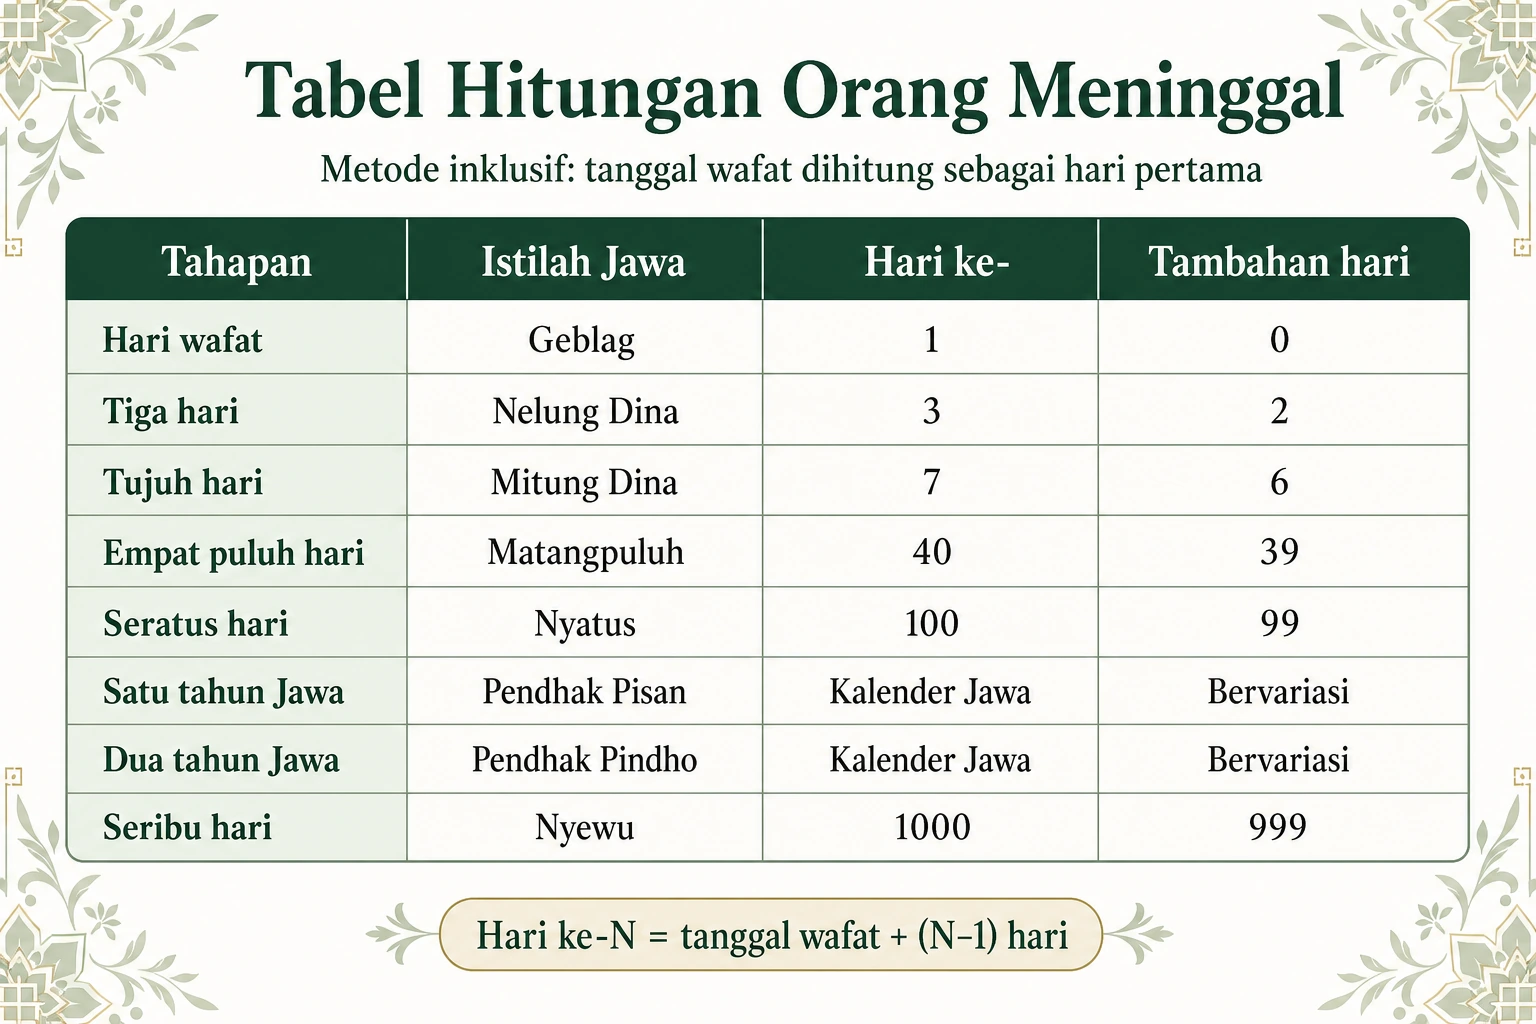
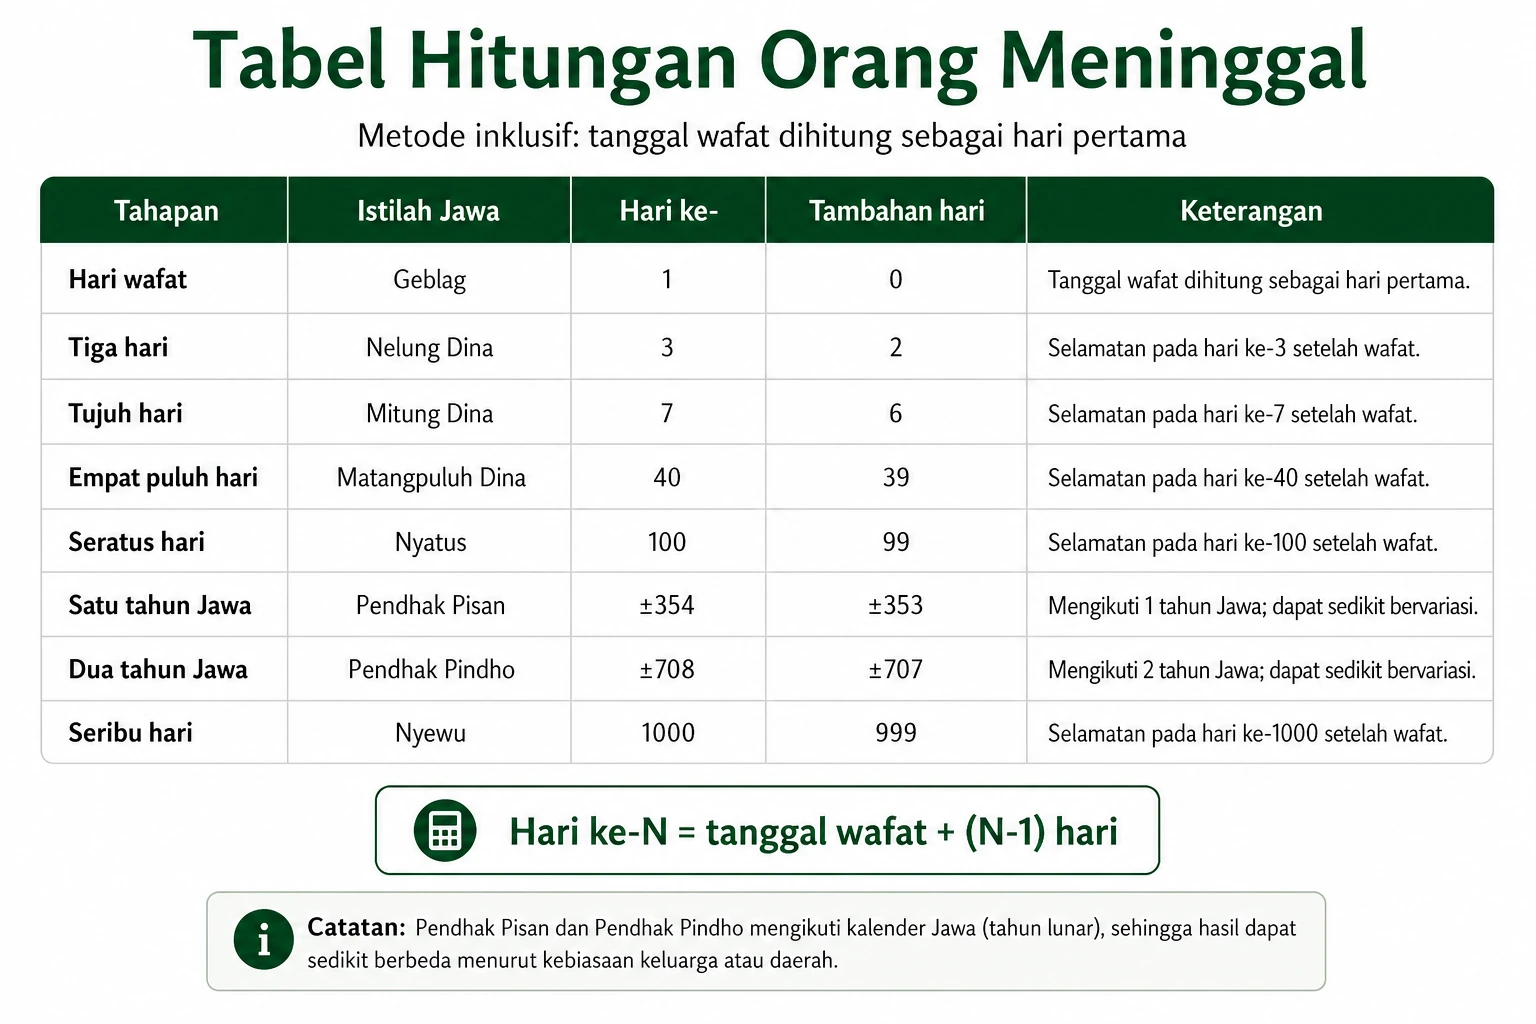
Update table infographic and image SEO

Changed region(s): [[0.0, 0.0, 1.0, 1.0], [0.8438, 0.75, 1.0, 1.0], [0.5625, 0.4062, 0.625, 0.4375]]

diff --git a/app/page.tsx b/app/page.tsx
@@ -70,7 +70,7 @@ const schema = {
       "@id": `${canonicalUrl}#tabel-hitungan-image`,
       name: "Tabel Hitungan Orang Meninggal",
       caption:
-        "Ringkasan tahapan selamatan, istilah Jawa, hari ke-, dan tambahan hari menggunakan metode inklusif.",
+        "Tabel hitungan orang meninggal dengan tahapan selamatan, istilah Jawa, hari ke-, tambahan hari, dan keterangan metode inklusif.",
       contentUrl: `${canonicalUrl}images/tabel-hitungan-orang-meninggal.webp`,
       url: `${canonicalUrl}images/tabel-hitungan-orang-meninggal.webp`,
       width: 1536,
@@ -158,15 +158,15 @@ export default function Home() {
             <figure className="calculation-table-figure">
               <Image
                 src="/images/tabel-hitungan-orang-meninggal.webp"
-                alt="Tabel hitungan orang meninggal: Geblag hari ke-1, Nelung Dina hari ke-3, Mitung Dina hari ke-7, Matangpuluh hari ke-40, Nyatus hari ke-100, Pendhak Pisan, Pendhak Pindho, dan Nyewu hari ke-1000."
+                alt="Tabel hitungan orang meninggal dengan metode inklusif: Geblag hari ke-1, Nelung Dina hari ke-3, Mitung Dina hari ke-7, Matangpuluh hari ke-40, Nyatus hari ke-100, Pendhak Pisan sekitar 354 hari, Pendhak Pindho sekitar 708 hari, dan Nyewu hari ke-1000."
                 width={1536}
                 height={1024}
                 sizes="(max-width: 800px) calc(100vw - 40px), 760px"
               />
               <figcaption>
                 Tabel hitungan orang meninggal dengan metode inklusif, meliputi
-                tahapan, istilah Jawa, hari ke-, dan jumlah hari yang
-                ditambahkan.
+                tahapan, istilah Jawa, hari ke-, tambahan hari, dan keterangan
+                untuk setiap tahapan.
               </figcaption>
             </figure>
             <p className="inline-note">
